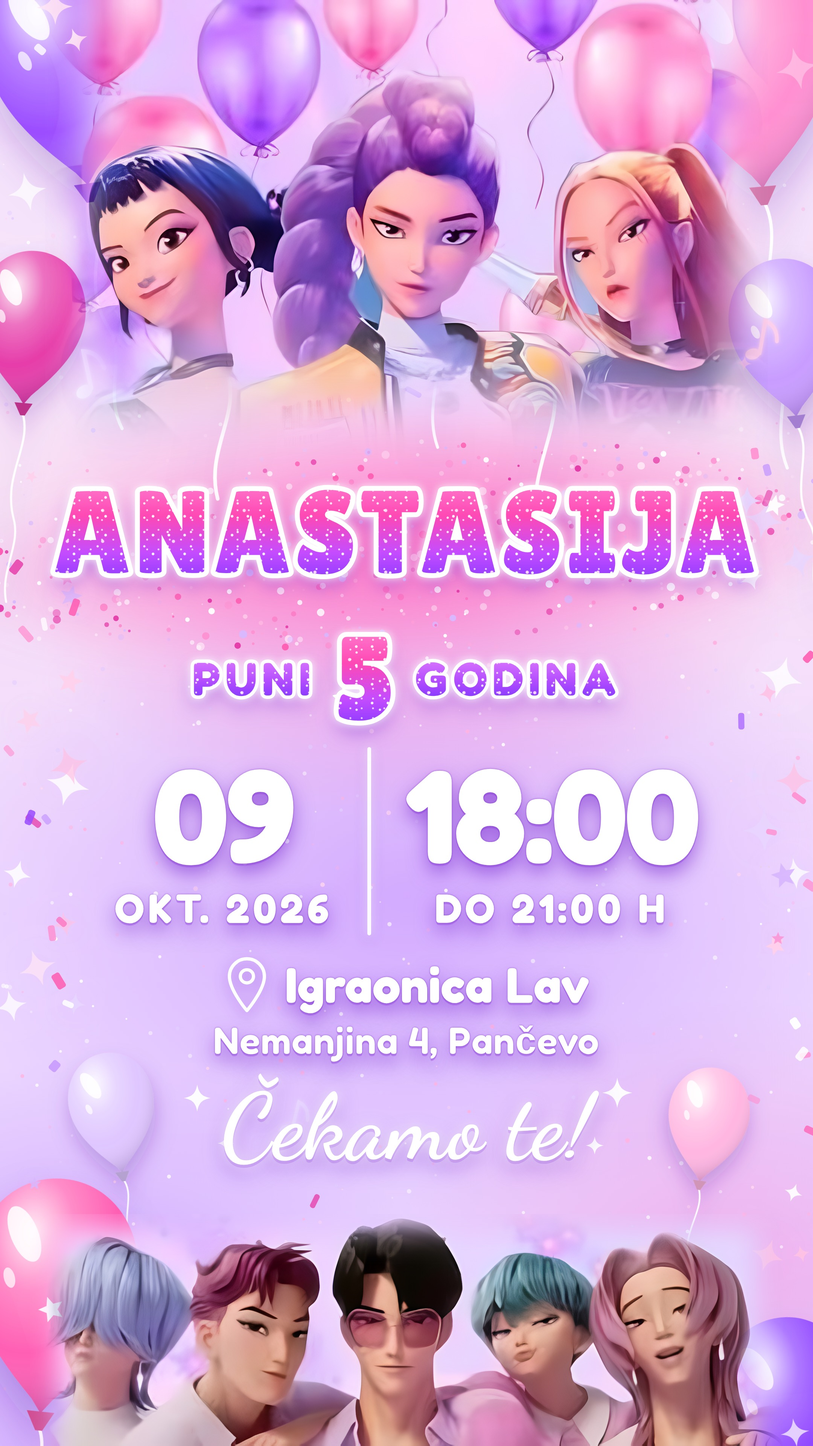
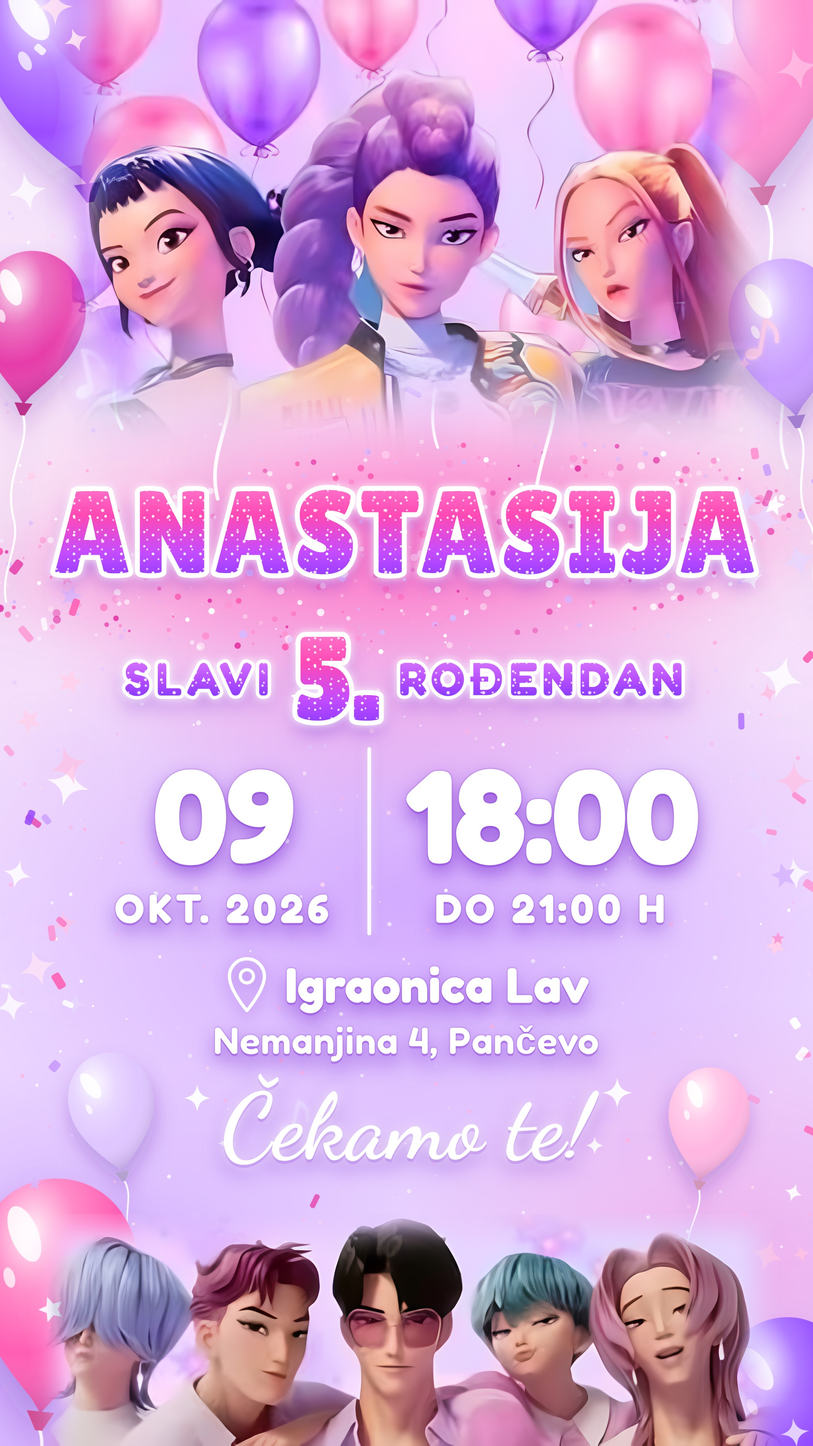
Pozivnica (Anastasija): natpis "SLAVI 5. ROĐENDAN" umesto "PUNI 5 GODINA"
Claude-Session: https://claude.ai/code/session_01WPsLspqn5fgTDtsMpxXm4s

Changed region(s): [[0.1551, 0.4375, 0.8375, 0.5312]]

diff --git a/pozivnice/anastasija/pozivnica.html b/pozivnice/anastasija/pozivnica.html
@@ -163,7 +163,7 @@
    ========================================================= */
 const POZIVNICA = {
   ime:      'Anastasija',
-  godine:   5,               // npr. 5  ->  "PUNI 5 GODINA" sa velikim brojem;  null -> "SLAVI ROĐENDAN"
+  godine:   5,               // npr. 5  ->  "SLAVI 5. ROĐENDAN" sa velikim brojem;  null -> "SLAVI ROĐENDAN"
   dan:      '09',
   mesec:    'OKT. 2026',
   pocetak:  '18:00',
@@ -296,7 +296,7 @@ function glit(text, cls){
   const P=POZIVNICA;
   document.getElementById('name').querySelectorAll('span').forEach(s=>s.textContent=P.ime);
   const sub=document.getElementById('sub');
-  if(P.godine){ sub.appendChild(glit('puni')); sub.appendChild(glit(String(P.godine),'age')); sub.appendChild(glit('godina')); }
+  if(P.godine){ sub.appendChild(glit('slavi')); sub.appendChild(glit(P.godine+'.','age')); sub.appendChild(glit('rođendan')); }
   else{ sub.appendChild(glit('slavi rođendan')); }
   document.getElementById('dan').textContent=P.dan;
   document.getElementById('mesec').textContent=P.mesec;
